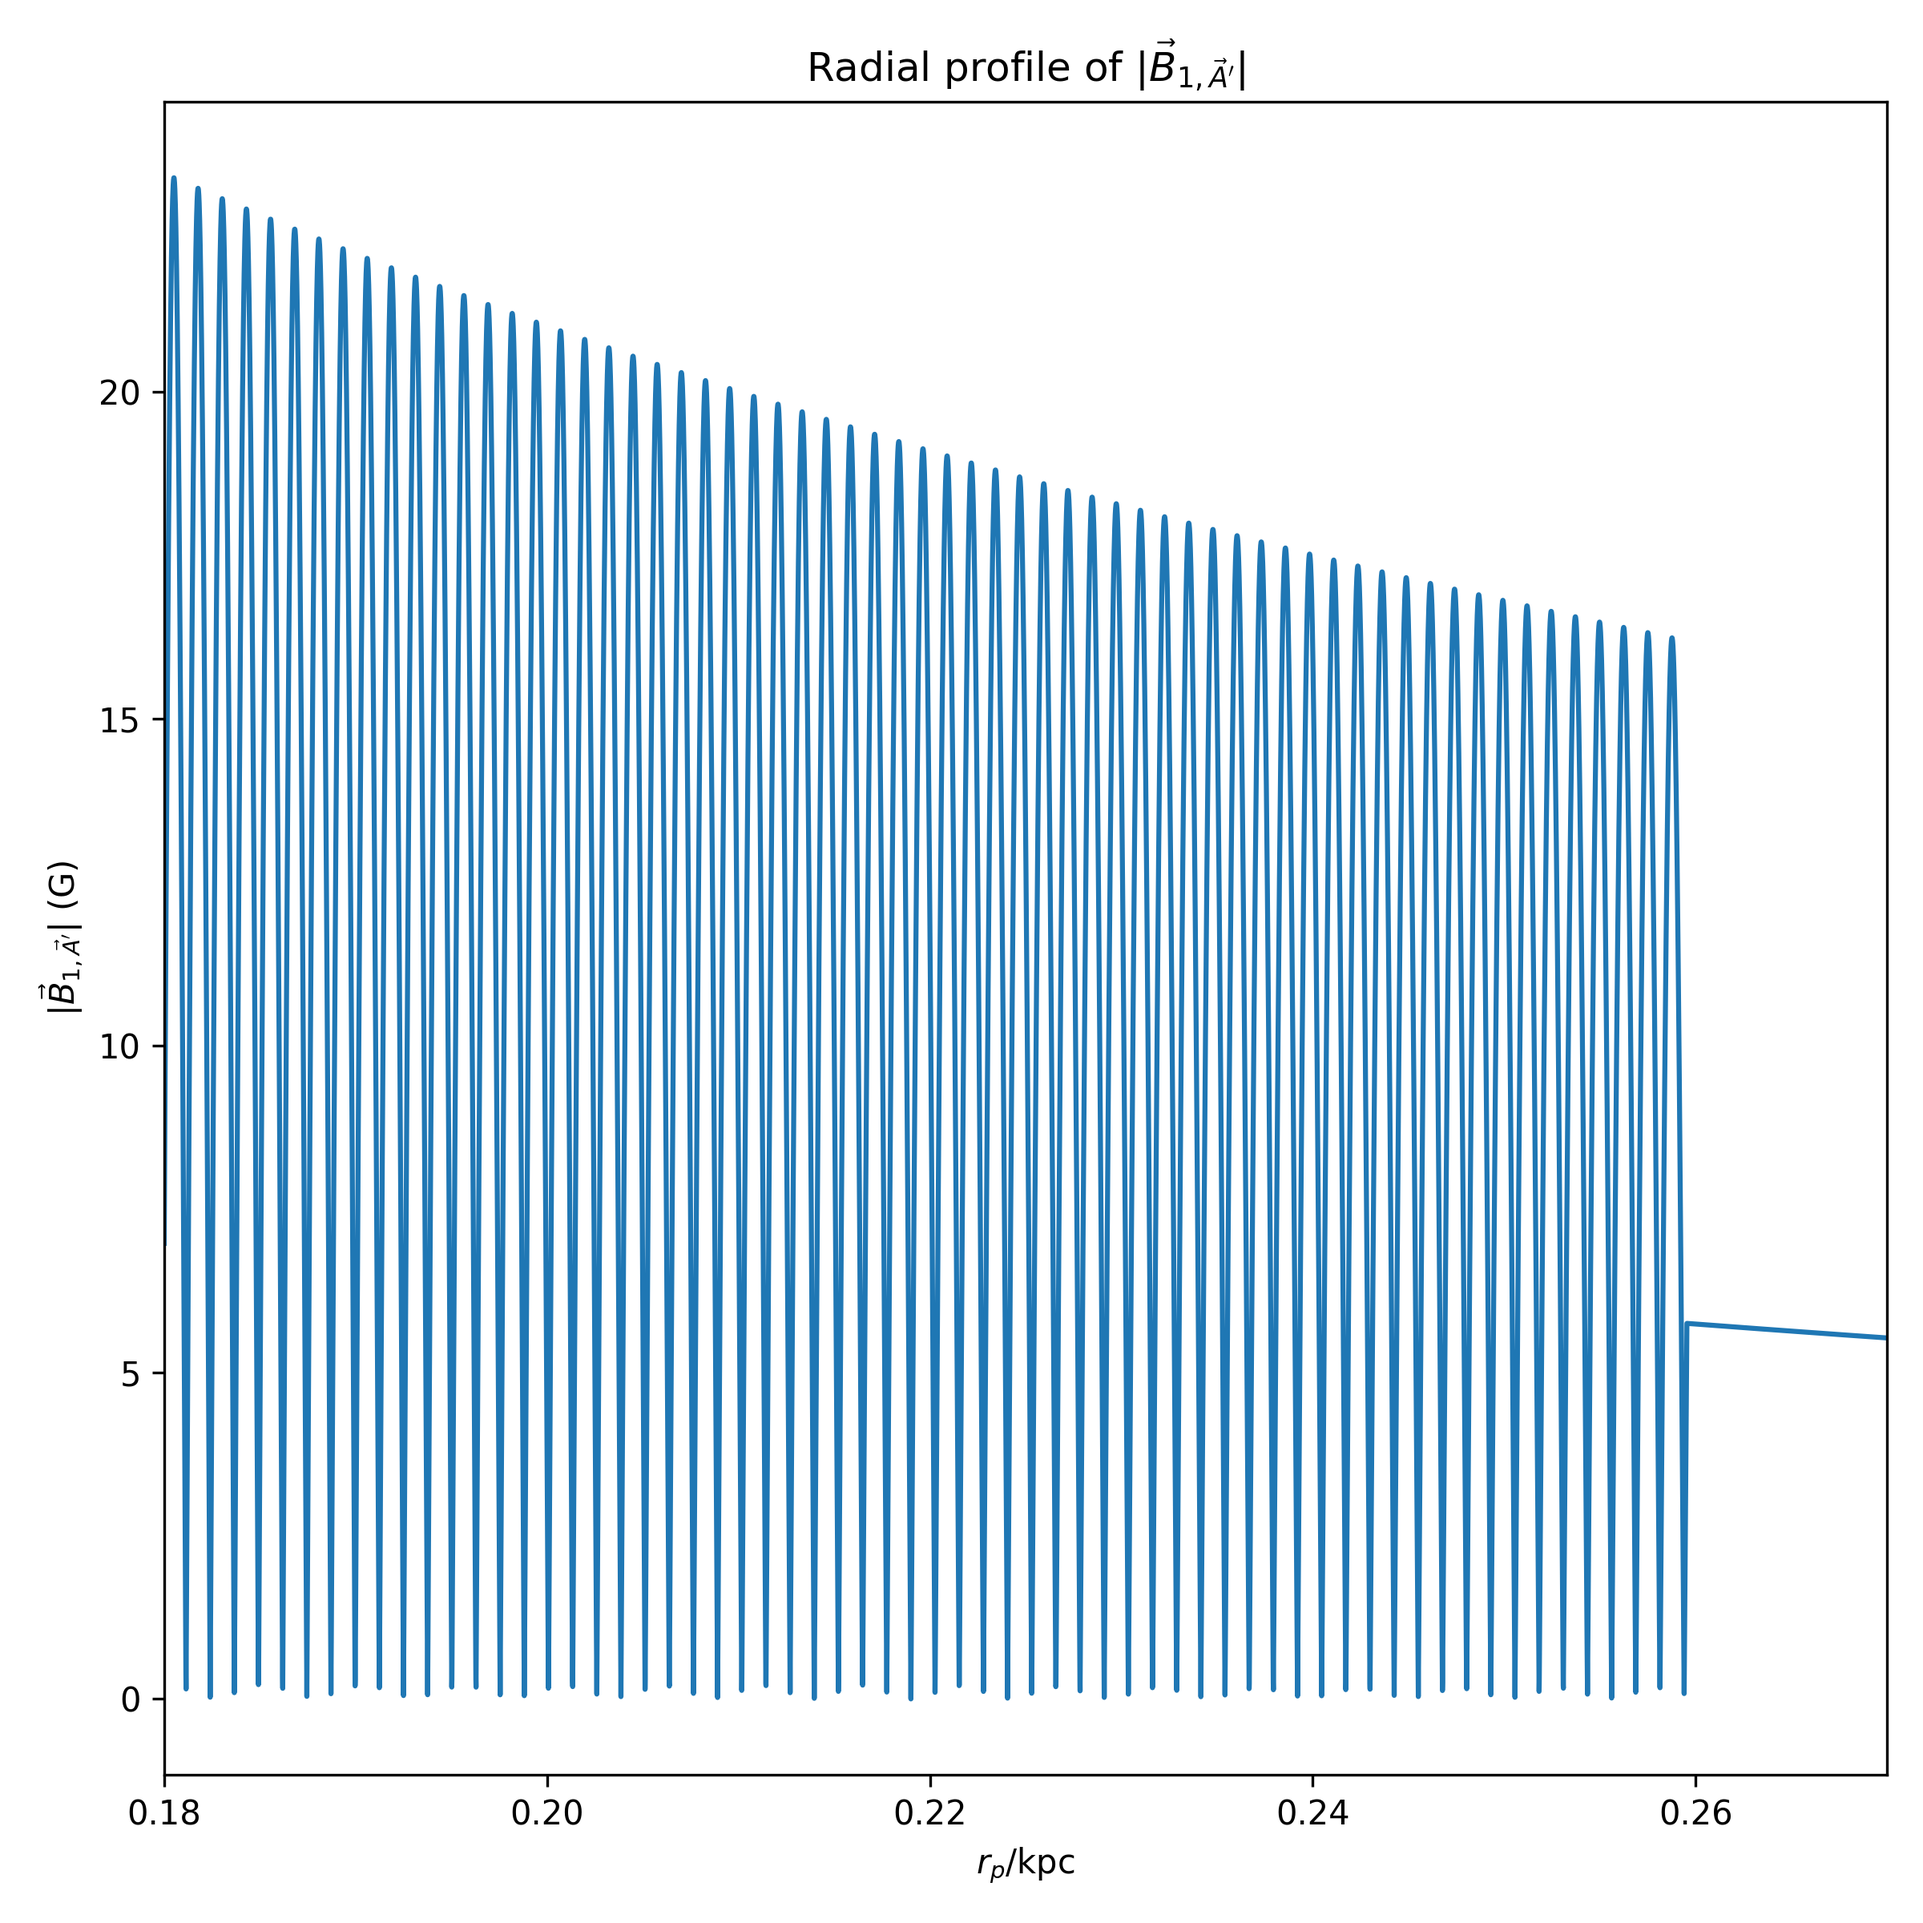
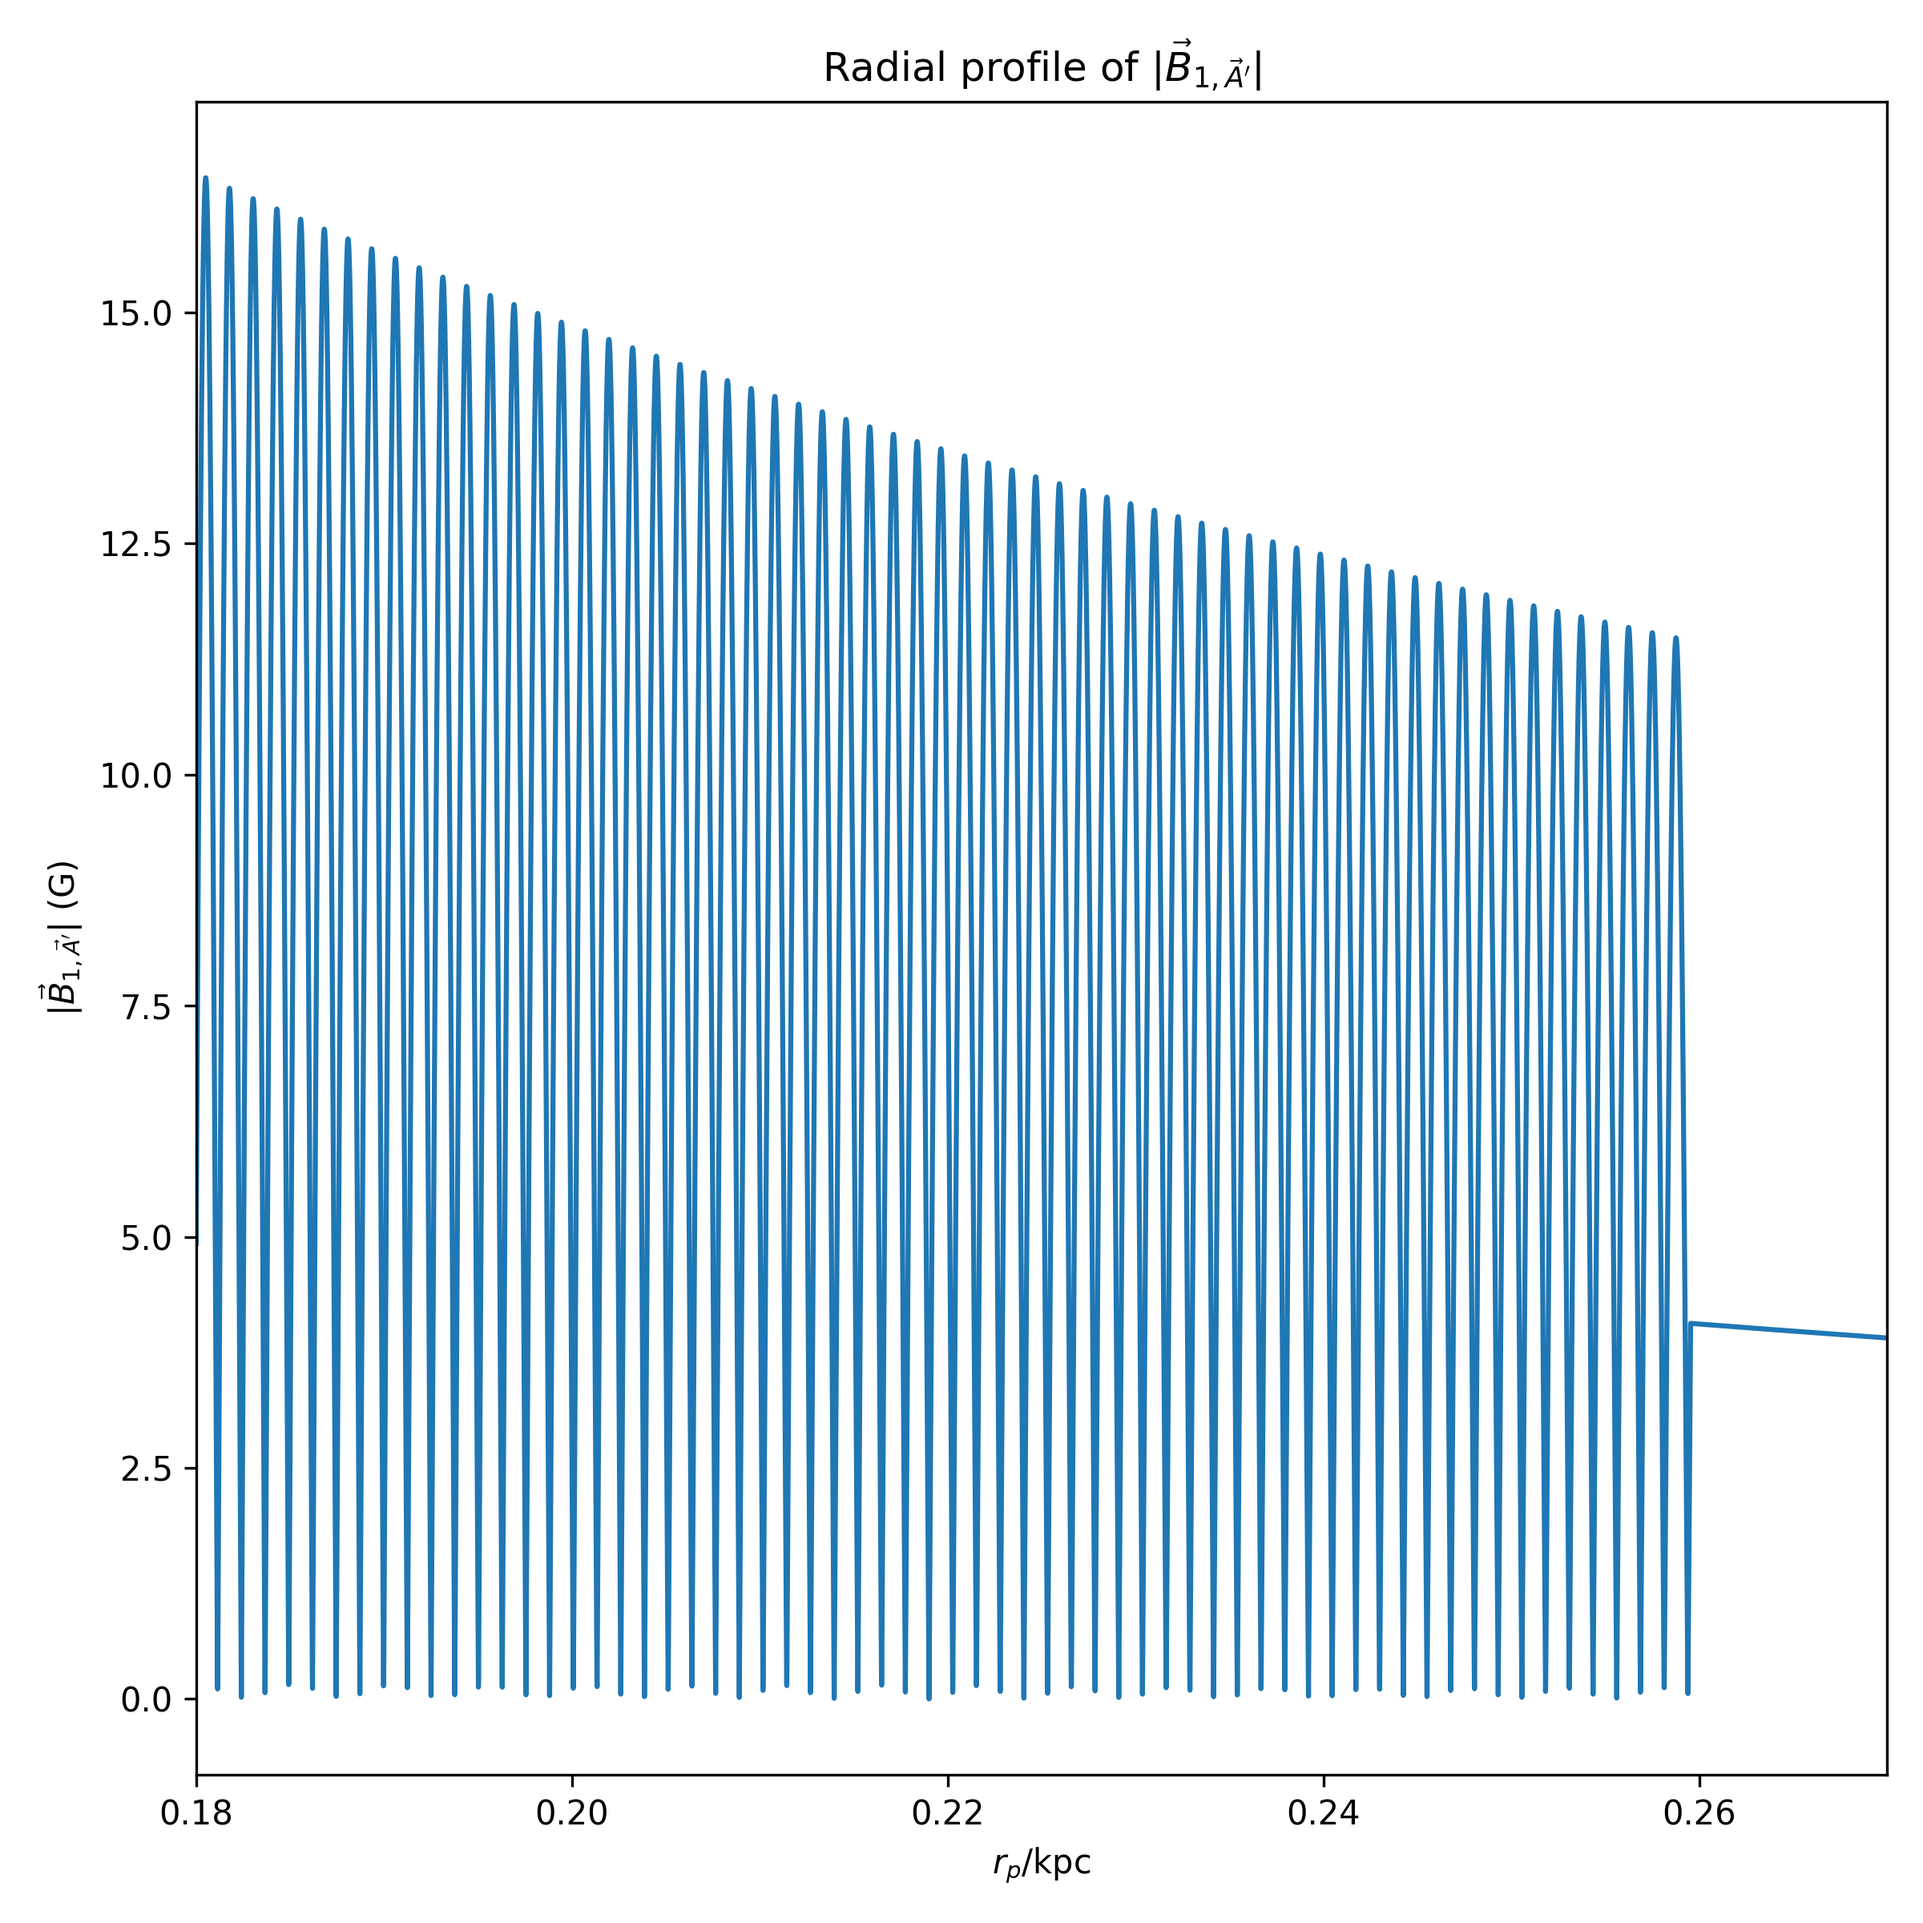
In progress

diff --git a/zeeman.py b/zeeman.py
@@ -190,7 +190,7 @@ def calculate_I(r_p, r_cutoff, omega):
     return I
 
 # Calculate the magnitude of magnetic field
-def calculate_B1(potential_type, particle_type, t, m, f, epsilon, r_p, B_bar, real=True):
+def calculate_B1(potential_type, particle_type, t, m, f, epsilon, r_p, theta_p, phi_p, B_bar):
     """
     Args:
         potential_type (str): Type of potential ("sech" or "flat").
@@ -200,6 +200,8 @@ def calculate_B1(potential_type, particle_type, t, m, f, epsilon, r_p, B_bar, re
         f (float): Energy scale of axion.
         epsilon (float): Photon-dark photon coupling strength.
         r_p (float): Distance of measurement point from Galactic Centre.
+        theta_p (float): theta displacement of the measurement point.
+        phi_p (float): phi displacement of the measurement point.
         B_bar (float): Magnitude of the background magnetic field.
         real (bool, optional): Whether to take the real parts of the magnetic field components. Defaults to True.
 
@@ -237,34 +239,24 @@ def calculate_B1(potential_type, particle_type, t, m, f, epsilon, r_p, B_bar, re
             g_ac = calculate_gac(potential_type, f) # Calculate the axion-photon coupling strength
             omega = m
             B_bar_x, B_bar_y, B_bar_z = 0, B_bar, 0 # Decompose B_bar into Cartesian components
-            coeff = omega * g_ac * phi0 # Coefficient for axion
+            coeff = - j * omega * g_ac * phi0 # Coefficient for axion
 
         elif particle_type == "dark photon":
             omega = m - mu
-            B_bar_x, B_bar_y, B_bar_z = 1 / np.sqrt(2), j / np.sqrt(2), 0 # Pseudo-magnetic field representing the circular polarization vector
+            B_bar_x, B_bar_y, B_bar_z = 1 / np.sqrt(2), j / np.sqrt(2), 0 # Pseudo-magnetic field representing the circular polarisation vector
             coeff = epsilon * m**2 * A0 # Coefficient for dark photon
         
         # Calculate the integral based on the cutoff radius
         I = calculate_I(r_p, r_cutoff, omega)
 
         # Compute magnitudes of B1 components
-        if real:
-            B1_x_complex = coeff * np.exp(- j * omega * t) * B_bar_y * I
-            B1_y_complex = coeff * np.exp(- j * omega * t) * - B_bar_x * I
-            B1_z_complex = 0 # No contribution in the z direction
-            B1_x = np.real(B1_x_complex)
-            B1_y = np.real(B1_y_complex)
-            B1_z = np.real(B1_z_complex)
-            B1 = np.sqrt(B1_x**2 + B1_y**2 + B1_z**2)
-
-        else:
-            B1_x_complex = coeff * B_bar_y * I
-            B1_y_complex = coeff * - B_bar_x * I
-            B1_z_complex = 0 # No contribution in the z direction
-            B1_x = np.abs(B1_x_complex)
-            B1_y = np.abs(B1_y_complex)
-            B1_z = np.abs(B1_z_complex)
-            B1 = np.sqrt(B1_x**2 + B1_y**2 + B1_z**2)
+        B1_x_complex = coeff * np.exp(- j * omega * t) * I * (np.cos(theta_p) * B_bar_y - np.sin(theta_p) * np.sin(phi_p) * B_bar_z)
+        B1_y_complex = coeff * np.exp(- j * omega * t) * I * (- np.cos(theta_p) * B_bar_x + np.sin(theta_p) * np.cos(phi_p) * B_bar_z)
+        B1_z_complex = coeff * np.exp(- j * omega * t) * I * np.sin(theta_p) * (np.sin(phi_p) * B_bar_x - np.cos(phi_p) * B_bar_y)
+        B1_x = np.real(B1_x_complex)
+        B1_y = np.real(B1_y_complex)
+        B1_z = np.real(B1_z_complex)
+        B1 = np.sqrt(B1_x**2 + B1_y**2 + B1_z**2)
 
         return B1
 
@@ -670,7 +662,7 @@ def main():
     print(f"The magnitude of internal magnetic field is roughly {B_int:.2f}T.")
 
     # Specify the potential and particle types
-    potential_type = "flat" # sech or flat
+    potential_type = "sech" # sech or flat
     particle_type = "axion" # axion or dark photon
 
     # Background magnetic field (T)
@@ -697,8 +689,8 @@ def main():
     elif particle_type == "dark photon":
         m, omega = m_D, m_D - mu
 
-    params = False
-    if params:
+    plot_params = False
+    if plot_params:
         # Parameter space
         m_as = np.logspace(-22, -18, 2000)
         m_Ds = np.logspace(-22, -18, 2000)
@@ -706,8 +698,8 @@ def main():
         epsilons = np.logspace(-5, -3, 2000)
         m_as, fs = np.meshgrid(m_as, fs)
         m_Ds, epsilons = np.meshgrid(m_Ds, epsilons)
-        B1params_a = calculate_B1("flat", "axion", 0, m_as, fs, epsilon, 8000 * pc_to_m * m_to_eVminus1, B_bar, real=False)
-        B1params_d = calculate_B1("flat", "dark photon", 0, m_Ds, f, epsilons, 8000 * pc_to_m * m_to_eVminus1, B_bar, real=False)
+        B1params_a = calculate_B1("flat", "axion", 0, m_as, fs, epsilon, 8000 * pc_to_m * m_to_eVminus1, 0, 0, B_bar)
+        B1params_d = calculate_B1("flat", "dark photon", 0, m_Ds, f, epsilons, 8000 * pc_to_m * m_to_eVminus1, 0, 0, B_bar)
 
         # Plot B1 versus the parameter space
         plot2D_data(np.log10(m_as), np.log10(fs), np.log10(B1params_a / 1e-4), r"$m_a$ (eV)", r"$f_a$ (eV)", r"$|\vec{B}_{1, a}| (G)$", r"$|\vec{B}_{1, a}|$ across parameter space", "B1paramsaxion.png", xlog=True, ylog=True, zlog=True, save=True)
@@ -721,7 +713,7 @@ def main():
     ts = np.linspace(0, 4 * period, 1000)
 
     # Calculate B1 values
-    B1s = np.array([calculate_B1(potential_type, particle_type, t * s_to_eVminus1, m, f, epsilon, r_p, B_bar) for t in ts])
+    B1s = np.array([calculate_B1(potential_type, particle_type, t * s_to_eVminus1, m, f, epsilon, r_p, 0, 0, B_bar) for t in ts])
 
     # Calculate the shift in energy for each B1
     delta_Es = np.array([calculate_delta_E(B1) for B1 in B1s])
@@ -747,26 +739,28 @@ def main():
     # Plot frequency shift versus time
     plot_data(ts, delta_nus, None, r"$t$ (s)", r"$\Delta\nu$ (Hz)", r"$\Delta\nu$ versus $t$", f"Deltanuvstime{lower_rspace(potential_type)}{lower_rspace(particle_type)}m{m}.png", save=True)
 
-    # Plot B1 versus distance of measurement point from Galactic Centre (r_p)
-    r_ps = np.linspace(1 * r_c, 8000 * pc_to_m * m_to_eVminus1, 10000)
-    r_ps_res = np.linspace(1 * r_c, 1.5 * r_c, 10000)
-    f, m_a, m_D = gen_params("flat")
-    B1r_ps_a = np.array([calculate_B1("flat", "axion", 0, m_a, f, epsilon, r_p, B_bar, real=False) for r_p in r_ps])
-    B1r_ps_d = np.array([calculate_B1("flat", "dark photon", 0, m_D, f, epsilon, r_p, B_bar, real=False) for r_p in r_ps])
-    B1r_ps_a_res = np.array([calculate_B1("flat", "axion", 0, m_a, f, epsilon, r_p, B_bar, real=False) for r_p in r_ps_res])
-    B1r_ps_d_res = np.array([calculate_B1("flat", "dark photon", 0, m_D, f, epsilon, r_p, B_bar, real=False) for r_p in r_ps_res])
+    plot_radial = False
+    if plot_radial:
+        # Plot B1 versus distance of measurement point from Galactic Centre (r_p)
+        r_ps = np.linspace(1 * r_c, 8000 * pc_to_m * m_to_eVminus1, 10000)
+        r_ps_res = np.linspace(1 * r_c, 1.5 * r_c, 10000)
+        f, m_a, m_D = gen_params("flat")
+        B1r_ps_a = np.array([calculate_B1("flat", "axion", 0, m_a, f, epsilon, r_p, 0, 0, B_bar) for r_p in r_ps])
+        B1r_ps_d = np.array([calculate_B1("flat", "dark photon", 0, m_D, f, epsilon, r_p, 0, 0, B_bar) for r_p in r_ps])
+        B1r_ps_a_res = np.array([calculate_B1("flat", "axion", 0, m_a, f, epsilon, r_p, 0, 0, B_bar) for r_p in r_ps_res])
+        B1r_ps_d_res = np.array([calculate_B1("flat", "dark photon", 0, m_D, f, epsilon, r_p, 0, 0, B_bar) for r_p in r_ps_res])
 
-    # Plot B1 versus r_p for axion
-    plot_data(r_ps / (1000 * pc_to_m * m_to_eVminus1), B1r_ps_a / 1e-4, "", r"$r_p/\mathrm{kpc}$", r"$|\vec{B}_{1, a}|$ (G)", r"Radial profile of $|\vec{B}_{1, a}|$", f"B1vsrpflataxionm{m_a}.png", xlog=True, save=True)
-    
-    # Restrict the radial range for plotting
-    plot_data(r_ps_res / (1000 * pc_to_m * m_to_eVminus1), B1r_ps_a_res / 1e-4, "", r"$r_p/\mathrm{kpc}$", r"$|\vec{B}_{1, a}|$ (G)", r"Radial profile of $|\vec{B}_{1, a}|$", f"B1vsrpflataxionm{m_a}res.png", save=True)
-    
-    # Plot B1 versus r_p for dark photon
-    plot_data(r_ps / (1000 * pc_to_m * m_to_eVminus1), B1r_ps_d / 1e-4, "", r"$r_p/\mathrm{kpc}$", r"$|\vec{B}_{1, \vec{A}'}|$ (G)", r"Radial profile of $|\vec{B}_{1, \vec{A}'}|$", f"B1vsrpflatdarkphotonm{m_D}.png", xlog=True, save=True)
-    
-    # Restrict the radial range for plotting
-    plot_data(r_ps_res / (1000 * pc_to_m * m_to_eVminus1), B1r_ps_d_res / 1e-4, "", r"$r_p/\mathrm{kpc}$", r"$|\vec{B}_{1, \vec{A}'}|$ (G)", r"Radial profile of $|\vec{B}_{1, \vec{A}'}|$", f"B1vsrpflatdarkphotonm{m_D}res.png", save=True)
+        # Plot B1 versus r_p for axion
+        plot_data(r_ps / (1000 * pc_to_m * m_to_eVminus1), B1r_ps_a / 1e-4, "", r"$r_p/\mathrm{kpc}$", r"$|\vec{B}_{1, a}|$ (G)", r"Radial profile of $|\vec{B}_{1, a}|$", f"B1vsrpflataxionm{m_a}.png", xlog=True, save=True)
+        
+        # Restrict the radial range for plotting
+        plot_data(r_ps_res / (1000 * pc_to_m * m_to_eVminus1), B1r_ps_a_res / 1e-4, "", r"$r_p/\mathrm{kpc}$", r"$|\vec{B}_{1, a}|$ (G)", r"Radial profile of $|\vec{B}_{1, a}|$", f"B1vsrpflataxionm{m_a}res.png", save=True)
+        
+        # Plot B1 versus r_p for dark photon
+        plot_data(r_ps / (1000 * pc_to_m * m_to_eVminus1), B1r_ps_d / 1e-4, "", r"$r_p/\mathrm{kpc}$", r"$|\vec{B}_{1, \vec{A}'}|$ (G)", r"Radial profile of $|\vec{B}_{1, \vec{A}'}|$", f"B1vsrpflatdarkphotonm{m_D}.png", xlog=True, save=True)
+        
+        # Restrict the radial range for plotting
+        plot_data(r_ps_res / (1000 * pc_to_m * m_to_eVminus1), B1r_ps_d_res / 1e-4, "", r"$r_p/\mathrm{kpc}$", r"$|\vec{B}_{1, \vec{A}'}|$ (G)", r"Radial profile of $|\vec{B}_{1, \vec{A}'}|$", f"B1vsrpflatdarkphotonm{m_D}res.png", save=True)
 
     # Create a grid of r_p and phi_p values
     phi_ps = np.linspace(0, 2 * np.pi, 10000) # Angle from 0 to 2π
